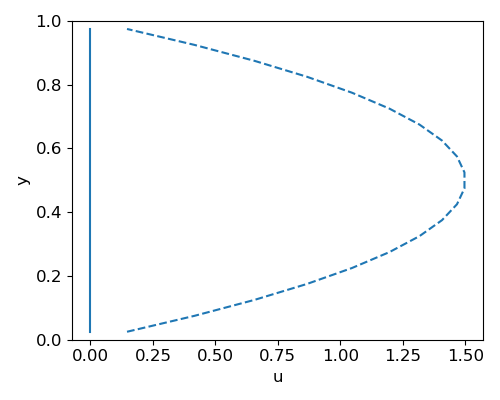
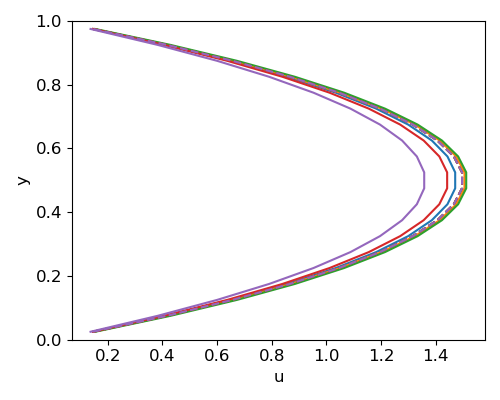
expl solver works now

diff --git a/homework4/channel_flow.py b/homework4/channel_flow.py
@@ -30,25 +30,31 @@ def main():
     # axes_pressure.set_ylim(0, 1)
     # axes_pressure.set_xlim(0, L_values[0])
     
-    # Write header to output file
+    # Write header to summary file
     with open(output_file, 'w') as file_out:
-        file_out.write('trial,Nx,Ny,L,dt,a,Re,plot_x,k,dx,dy,CFL,MAE,Time\n')
+        file_out.write('trial,Nx,Ny,L,dt,a,Re,plot_x,k,dx,dy,CFL_ac,MAE,Time\n')
     
     for trial, Nx, Ny, L, dt, a, Re, plot_x in zip(trial_ids, Nx_values, Ny_values, L_values, dt_values, a_values, Re_values, plot_x_values):
         # Create grid with ghost cells
         (x, y), dx, dy = create_grid(Nx, L, Ny, H=1)
         h = np.min([dx, dy])
-        CFL_ac = a * dt / h
+        CFL_ac = a * dt / h # CFL with artificial sound speed
+        epsilon = 1e-3
 
         # Initialize solution with ghost cells
-        p = 1 - x/L
+        p = np.ones((Ny + 2, Nx + 2))
         u = np.ones((Ny + 2, Nx + 2))
         v = np.zeros((Ny + 2, Nx + 2))
         apply_boundary_conditions(p, u, v)
+        
+        # Write header to verbose output
+        if verbose:
+            with open(output_file.replace('.csv', f'_trial{trial}.csv'), 'w') as file_out:
+                file_out.write('k      t        CFL_adv    Ma         |dp/dt|    |du/dt|\n')
 
         # Solve the governing equations using the explicit scheme
         t = 0
-        k = 0
+        k = 0 # Iteration count
         start_time = time.time()
         while True:
             # Compute spatial derivatives
@@ -70,19 +76,26 @@ def main():
             p += dp
             u += du
             v += dv
+
+            # Fourth-order smoothing
+            d4p_dx4 = d4_dx4(p, dx)
+            d4p_dy4 = d4_dy4(p, dy)
+            p -= epsilon * (d4p_dx4 + d4p_dy4)
+
             apply_boundary_conditions(p, u, v)
 
-            # Compute stability metrics
-            u_max = np.max(np.abs(u))
-            Ma = u_max / a
-            CFL_adv = u_max * dt / h
+            # Write results to verbose output
             dp_dt = np.mean(np.abs(dp)) / dt
             du_dt = np.mean(np.abs(du)) / dt
-            print(f'Run #{trial}: k = {k}, t = {t:.4f}, dt = {dt:.4e}, CFL_ac = {CFL_ac:.4e}, CFL_adv = {CFL_adv:.4e}, Ma = {Ma:.4e}, |dp/dt| = {dp_dt:.4e}, |du/dt| = {du_dt:.4e}')
+            if verbose:
+                u_max = np.max(np.abs(u))
+                Ma = u_max / a
+                CFL_adv = u_max * dt / h # CFL using actual fluid velocity
+                with open(output_file.replace('.csv', f'_trial{trial}.csv'), 'a') as file_out:
+                    file_out.write(f'{k:<6} {t:<8.4f} {CFL_adv:<10.4e} {Ma:<10.4e} {dp_dt:<10.4e} {du_dt:<10.4e}\n')
 
             # Break once time-derivatives approach zero
-            tolerance = 1e-4
-            if ((dp_dt < tolerance) and (du_dt < tolerance)) or (k > 1e2):
+            if ((dp_dt < 0.1) and (du_dt < 0.01)):
                 break
             else:
                 t += dt
@@ -99,6 +112,7 @@ def main():
         y_interior = y[1:-1, 0]
         x_index = np.argmin(np.abs(x[0, :] - plot_x))
         u_interior = u[1:-1, x_index]
+        # axes_velocity.plot(u[:, x_index], y[:, 0], color=f'C{trial-1}', label=f"Numerical: Trial {trial}")
         axes_velocity.plot(u_interior, y_interior, color=f'C{trial-1}', label=f"Numerical: Trial {trial}")
 
         # Plot analytical solution and compute MAE
@@ -106,7 +120,7 @@ def main():
         MAE = np.mean(np.abs(u_analytical - u_interior))
         axes_velocity.plot(u_analytical, y_interior, '--', color=f'C{trial-1}', label=f"Analytical: Trial {trial}")
 
-        # Write results to output file
+        # Write results to summary file
         with open(output_file, 'a') as file_out:
             file_out.write(f"{trial},{Nx},{Ny},{L},{dt},{a},{Re},{plot_x},{k},{dx},{dy},{CFL_ac},{MAE},{end_time - start_time}\n")
 
@@ -133,45 +147,54 @@ def create_grid(Nx, L, Ny=20, H=1, ghost_cells=True):
 
 def d_dx(f, dx):
     df_dx = np.zeros_like(f)
-    df_dx[:, 1:-1] = (f[:, 2:] - f[:, :-2]) / (2 * dx)
+    df_dx[1:-1, 1:-1] = (f[1:-1, 2:] - f[1:-1, :-2]) / (2 * dx)
 
     return df_dx
 
 def d_dy(f, dy):
     df_dy = np.zeros_like(f)
-    df_dy[1:-1, :] = (f[2:, :] - f[:-2, :]) / (2 * dy)
+    df_dy[1:-1, 1:-1] = (f[2:, 1:-1] - f[:-2, 1:-1]) / (2 * dy)
 
     return df_dy
 
 def d2_dx2(f, dx):
     d2f_dx2 = np.zeros_like(f)
-    d2f_dx2[:, 1:-1] = (f[:, 2:] - 2 * f[:, 1:-1] + f[:, :-2]) / (dx * dx)
+    d2f_dx2[1:-1, 1:-1] = (f[1:-1, 2:] - 2 * f[1:-1, 1:-1] + f[1:-1, :-2]) / (dx * dx)
 
     return d2f_dx2
 
 def d2_dy2(f, dy):
     d2f_dy2 = np.zeros_like(f)
-    d2f_dy2[1:-1, :] = (f[2:, :] - 2 * f[1:-1, :] + f[:-2, :]) / (dy * dy)
+    d2f_dy2[1:-1, 1:-1] = (f[2:, 1:-1] - 2 * f[1:-1, 1:-1] + f[:-2, 1:-1]) / (dy * dy)
 
     return d2f_dy2
 
+def d4_dx4(f, dx):
+    d4f_dx4 = np.zeros_like(f)
+    d4f_dx4[1:-1, 2:-2] = (f[1:-1, 4:] - 4 * f[1:-1, 3:-1] + 6 * f[1:-1, 2:-2] - 4 * f[1:-1, 1:-3] + f[1:-1, :-4])# / (dx**4)
+
+    return d4f_dx4
+
+def d4_dy4(f, dy):
+    d4f_dy4 = np.zeros_like(f)
+    d4f_dy4[2:-2, 1:-1] = (f[4:, 1:-1] - 4 * f[3:-1, 1:-1] + 6 * f[2:-2, 1:-1] - 4 * f[1:-3, 1:-1] + f[:-4, 1:-1])# / (dy**4)
+
+    return d4f_dy4
+
 def apply_boundary_conditions(p, u, v, p_inlet=1.0, p_outlet=0.0, u_inlet=1.0, v_inlet=0.0):
-    # Apply pressure boundary conditions (constant pressure drop)
-    p[:, -1] = p_outlet
-    p[:, 0] = p[:, 1]
+    # Apply pressure boundary conditions
+    p[:, -1] = 2 * p_outlet - p[:, -2] # Dirichlet pressure outlet
+    p[:, 0] = p[:, 1] # Neumann pressure inlet
 
     # Apply velocity boundary conditions
-    # Use Neumann (zero-gradient) at inlet/outlet to avoid forcing divergence
-    u[:, 1] = u_inlet
-    u[:, -1] = u[:, -2]
-
-    # v is zero at inlet/outlet (no cross-flow at boundaries)
-    v[:, 1] = v_inlet
+    u[:, 0] = 2 * u_inlet - u[:, 1] # Dirichlet velocity inlet
+    u[:, -1] = u[:, -2] # Neumann velocity outlet
+    v[:, 0] = 2 * v_inlet - v[:, 1]
     v[:, -1] = v[:, -2]
 
     # Apply no-slip wall boundary conditions for both velocity components
-    p[0, :] = p[1, :]
-    u[0, :] = -u[1, :]
+    p[0, :] = p[1, :] # Neumann pressure wall
+    u[0, :] = -u[1, :] # Dirichlet velocity wall
     v[0, :] = -v[1, :]
     p[-1, :] = p[-2, :]
     u[-1, :] = -u[-2, :]
@@ -184,6 +207,7 @@ if __name__ == "__main__":
     parser.add_argument('-o', '--output_file', type=str, default=None, help='Output .csv file to save results')
     parser.add_argument('-p', '--plot_file', type=str, default=None, help='Output .png file to save results')
     parser.add_argument('-f', '--base_folder', type=str, default='./', help='Base folder for trials (optional)')
+    parser.add_argument('-v', '--verbose', action='store_true', help='Write verbose output file')
     args = parser.parse_args()
 
     # Extract parameters from arguments
@@ -194,6 +218,7 @@ if __name__ == "__main__":
     output_file = os.path.join(base_folder, output_file)
     plot_file = args.plot_file
     plot_file = os.path.join(base_folder, plot_file)
+    verbose = args.verbose
 
     # Extract input parameters from input_file
     df = pd.read_csv(input_file)

diff --git a/homework4/plot_csv.py b/homework4/plot_csv.py
@@ -11,7 +11,7 @@ def plot_csv():
         plt.xscale('log')
     if log_y:
         plt.yscale('log')
-    plt.title(title, fontsize=16)
+    # plt.title(title, fontsize=16)
     plt.tick_params(labelsize=12)
     # plt.grid(True, linestyle='--', alpha=0.7)
 
@@ -36,7 +36,7 @@ def plot_csv():
         if not(math.isnan(slope_i)):
             x_ref = np.array([x.min(), x.max()])
             # Scale and translate the reference line to fit the data (according to the last point)
-            y_ref = y.iloc[-1] * (x_ref / x.iloc[-1])**slope_i
+            y_ref = y.iloc[0] * (x_ref / x.iloc[0])**slope_i
             plt.plot(x_ref, y_ref, color=f'C{i}', linestyle='dashed')
 
     # Save and show
